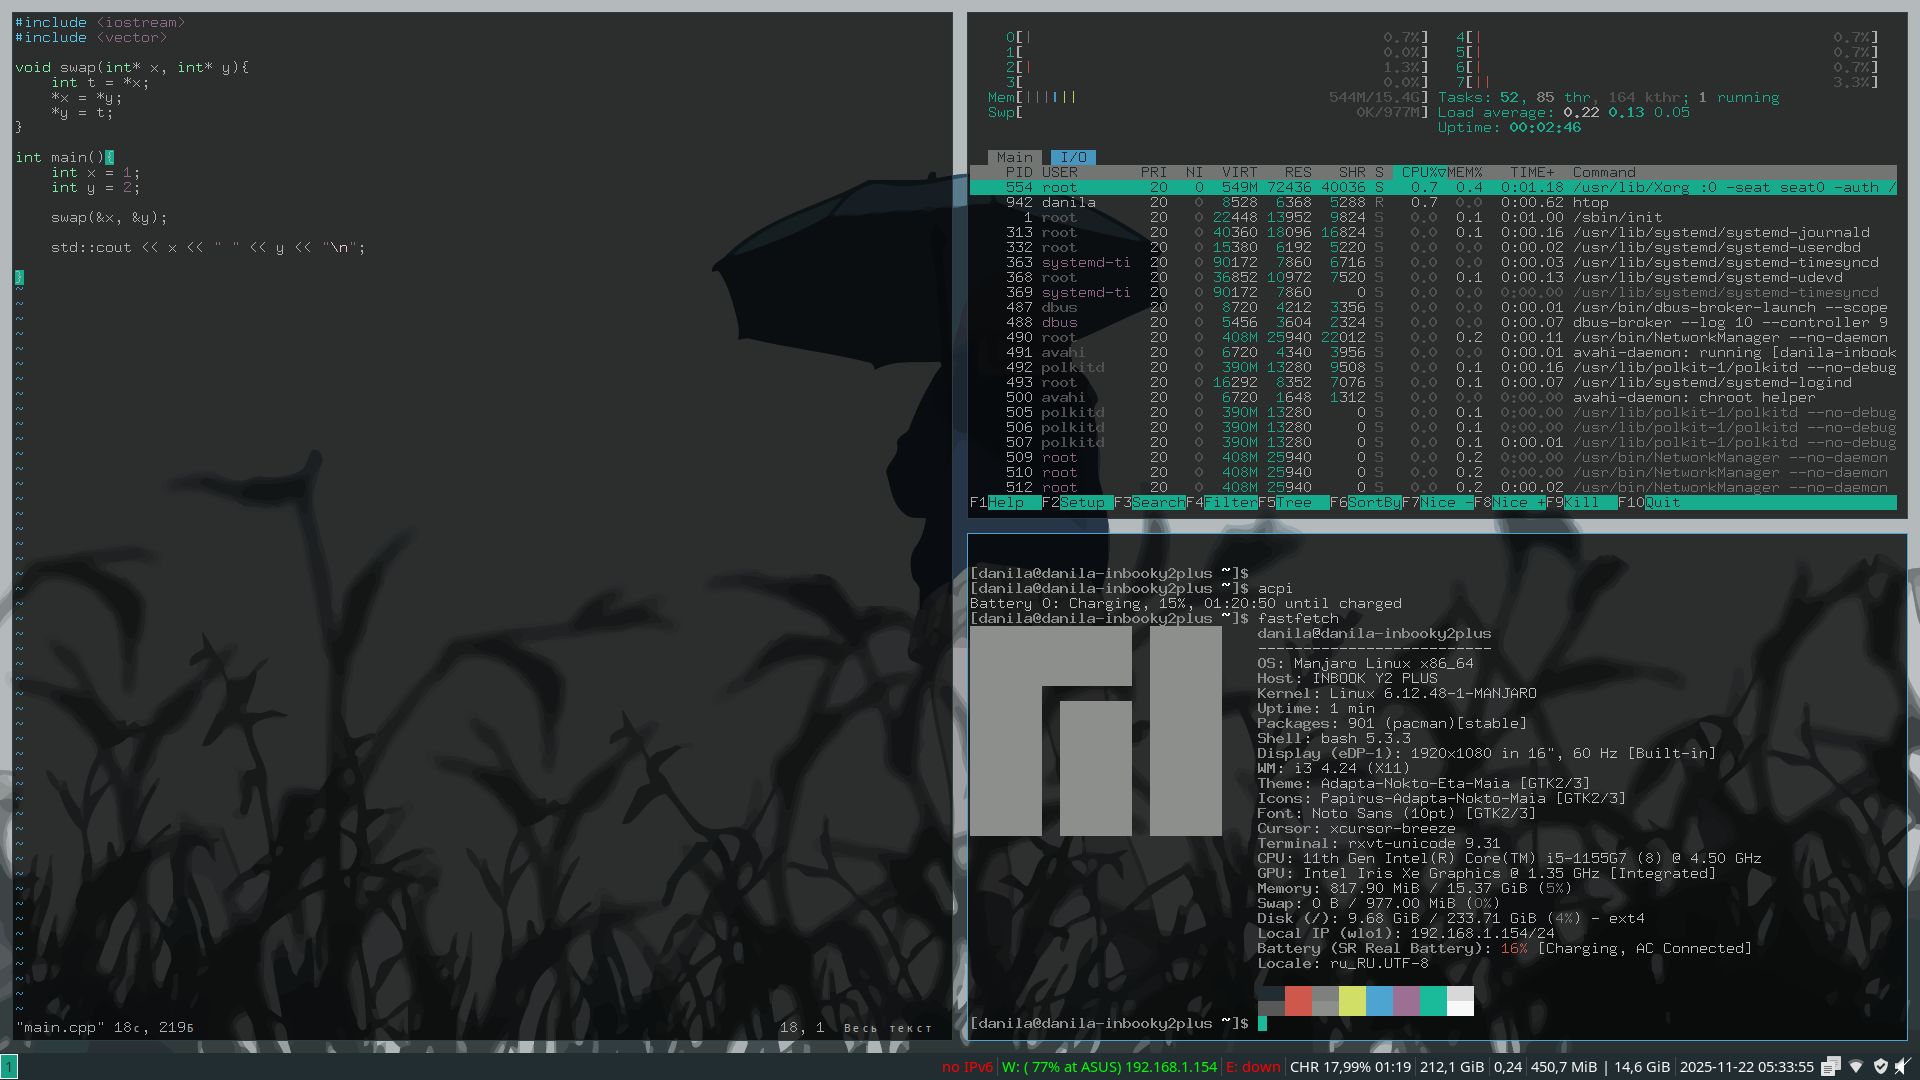
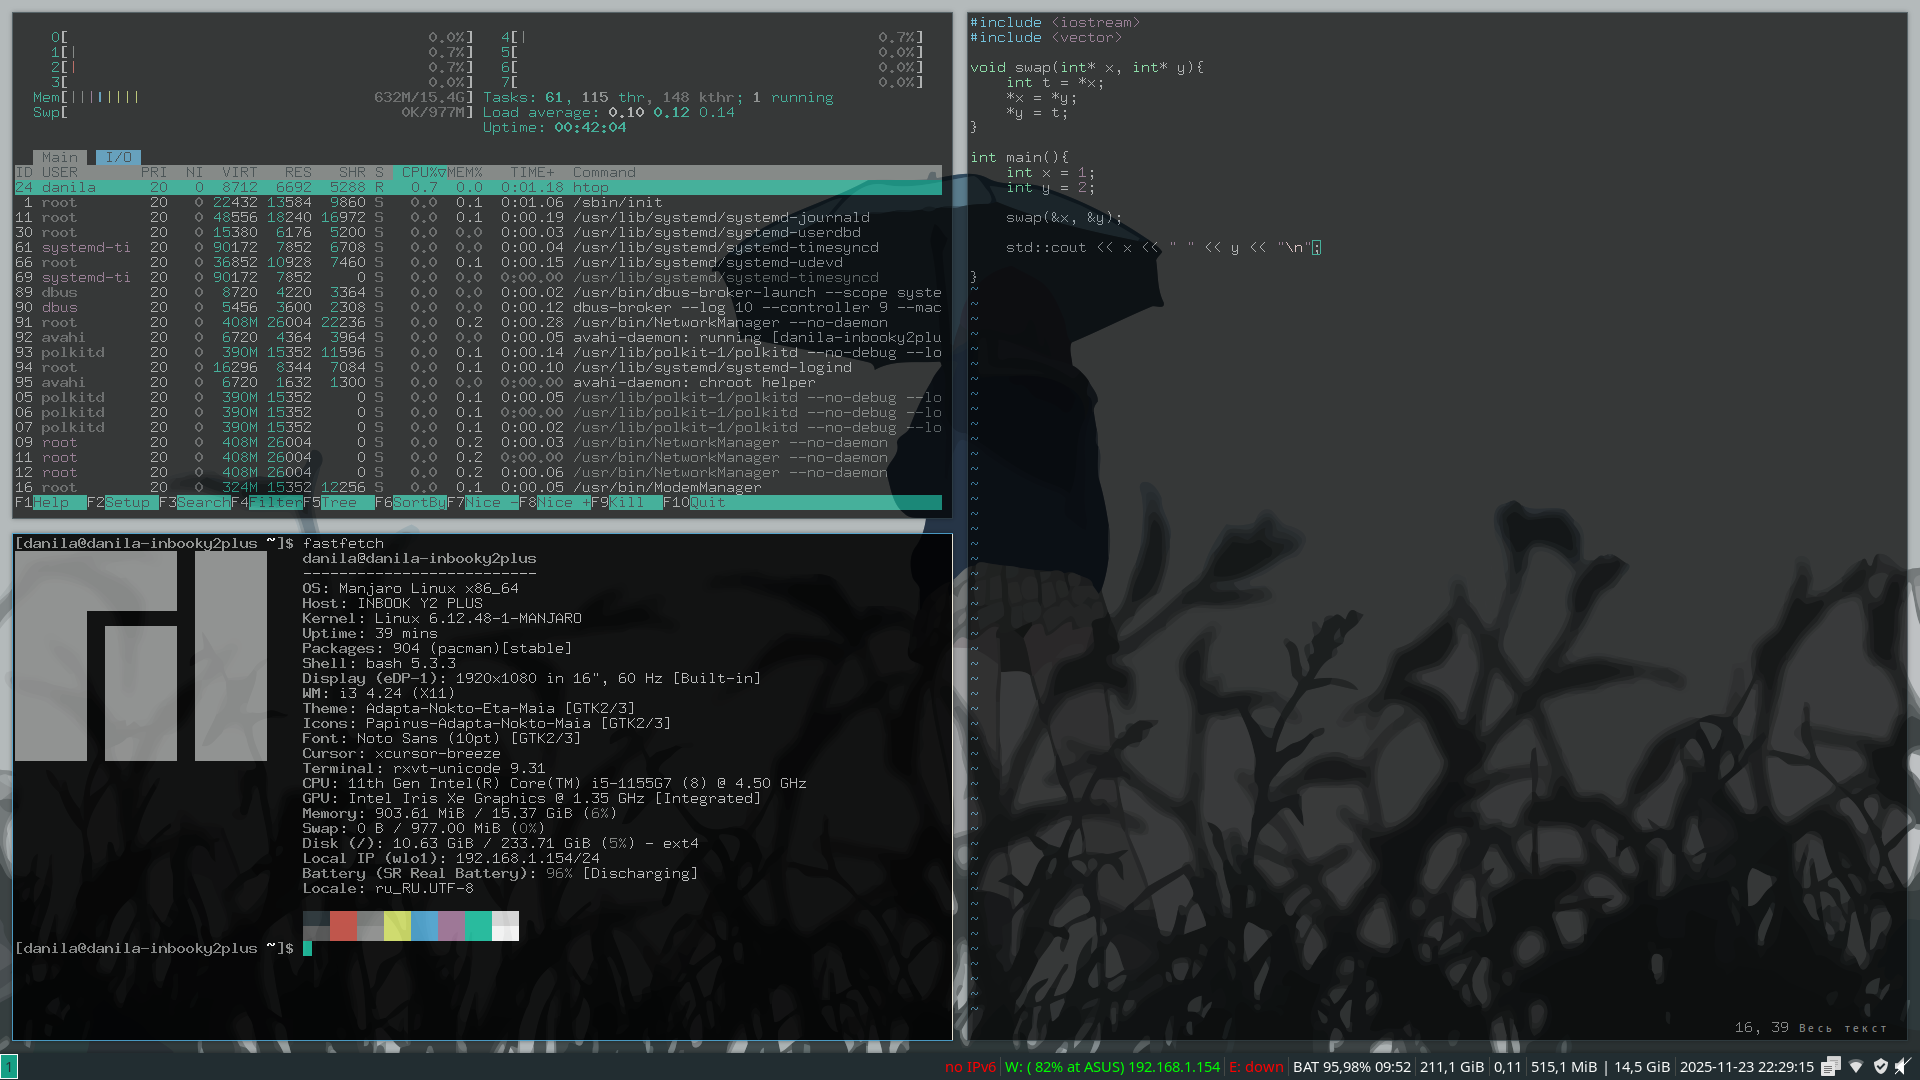
Added true transparency

diff --git a/README.md b/README.md
@@ -30,17 +30,29 @@
     
     The file `/urxvt/Xresources` is responsible for **urxvt** parameters, such as colors, fonts, and other settings.
 
-    Replace the file in `~/.Xresources`, then accept the changes `xrdb ~/.Xresources`.
-
+    Replace the file in `~/.Xresources`, then commit the changes with `rxvt ~/.Xresources`.
+    
     Open the new Window. Enjoy. 
 
-3. **Wallpapers**
+3. **Picom**
+
+    The `/picom/picom.conf` file is responsible for effects such as transparency, shadows, window rotation and unfolding animations, and anti-aliasing for window managers.
+
+    Replace the file in `/etc/xdg/picom.conf` or in the default directory for your picom configuration, then make changes using the `picom --config /etc/xdg/picom.conf` command.
+
+    If you have a different picom configuration directory, find this line in the `~/.i3/config` file and replace the path with your own.:
+
+    `picom --config /etc/xdg/picom.conf`
+
+    After that, in any case, reboot your i3 using the key combination `$mod+Shift+ r`.
+
+4. **Wallpapers**
    
     For to change wallpapers uses program `feh`.  
 
     **In the `~/.i3/config` file, find the line:**
 
-     `/home/user_name/i3wm-FLCL/wallpapers/your_wallpaper`
+    `/home/user_name/i3wm-FLCL/wallpapers/your_wallpaper`
 
     Replace `username` with your own.
     
